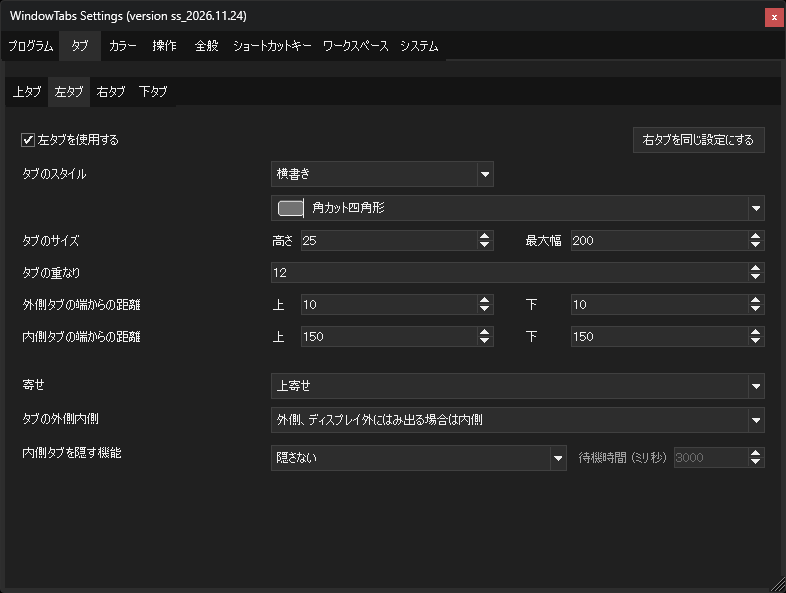
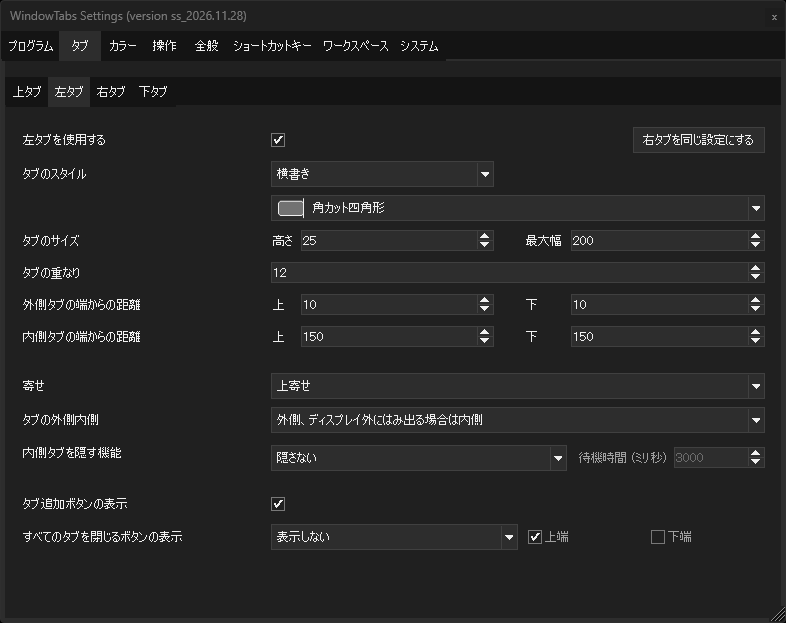
Document the add-tab and close-all-tabs buttons in the README and retake the settings pictures

diff --git a/README.md b/README.md
@@ -135,6 +135,24 @@ Auto Grouping brings windows of the same app together; shared categories (1–10
 
 - Give tabs a color, and choose whether to draw it as a background, underline, or border.
 
+### Add-tab button
+
+![Right-click menu of the add-tab button](README_Image/ShotAddTabMenu.png)
+
+- Show an add-tab button [+] after the last tab on each edge.
+- Left-click: launch the same program as the active tab, or the tab behind it, and add it as a tab.
+- Right-click: choose the program to launch from a list.
+- Show or hide the button for each edge.
+
+### Close-all-tabs button
+
+![Right-click menu of the close-all-tabs button](README_Image/ShotCloseAllMenu.png)
+
+- Show a close-all-tabs button [x].
+- Left-click: close all tabs after a confirmation.
+- Right-click: close all tabs, the selected tabs, or the unselected tabs, for the whole group or for one edge, without a confirmation.
+- Show or hide the button and choose its position for each edge. It can also be shown on an edge that has no tabs.
+
 ### More tab commands
 
 - Every feature you would expect from a tab UI is there.
